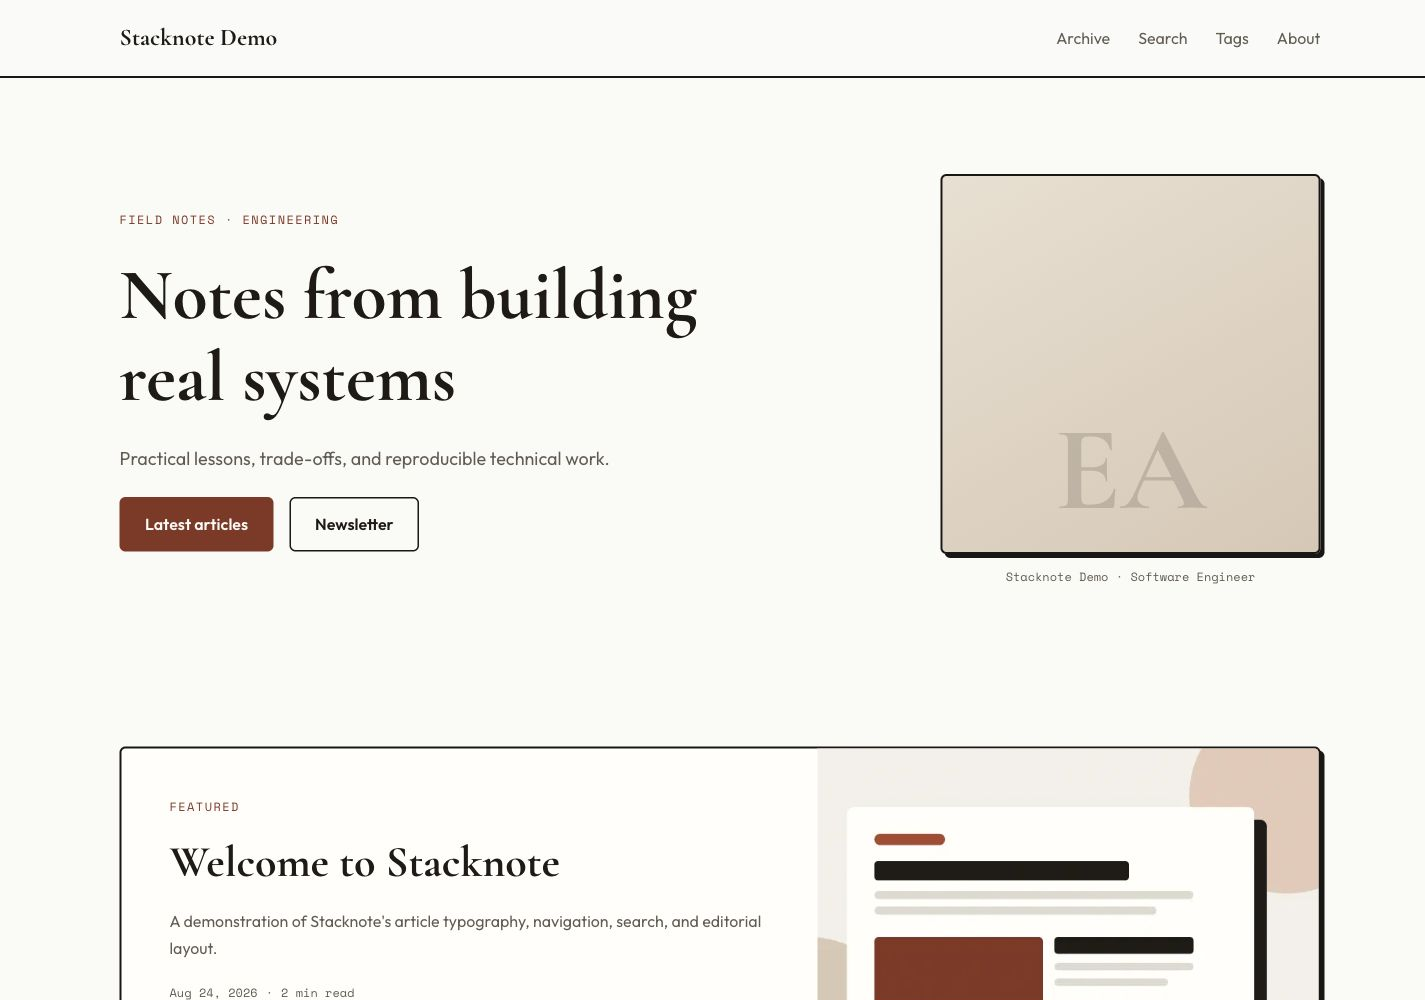
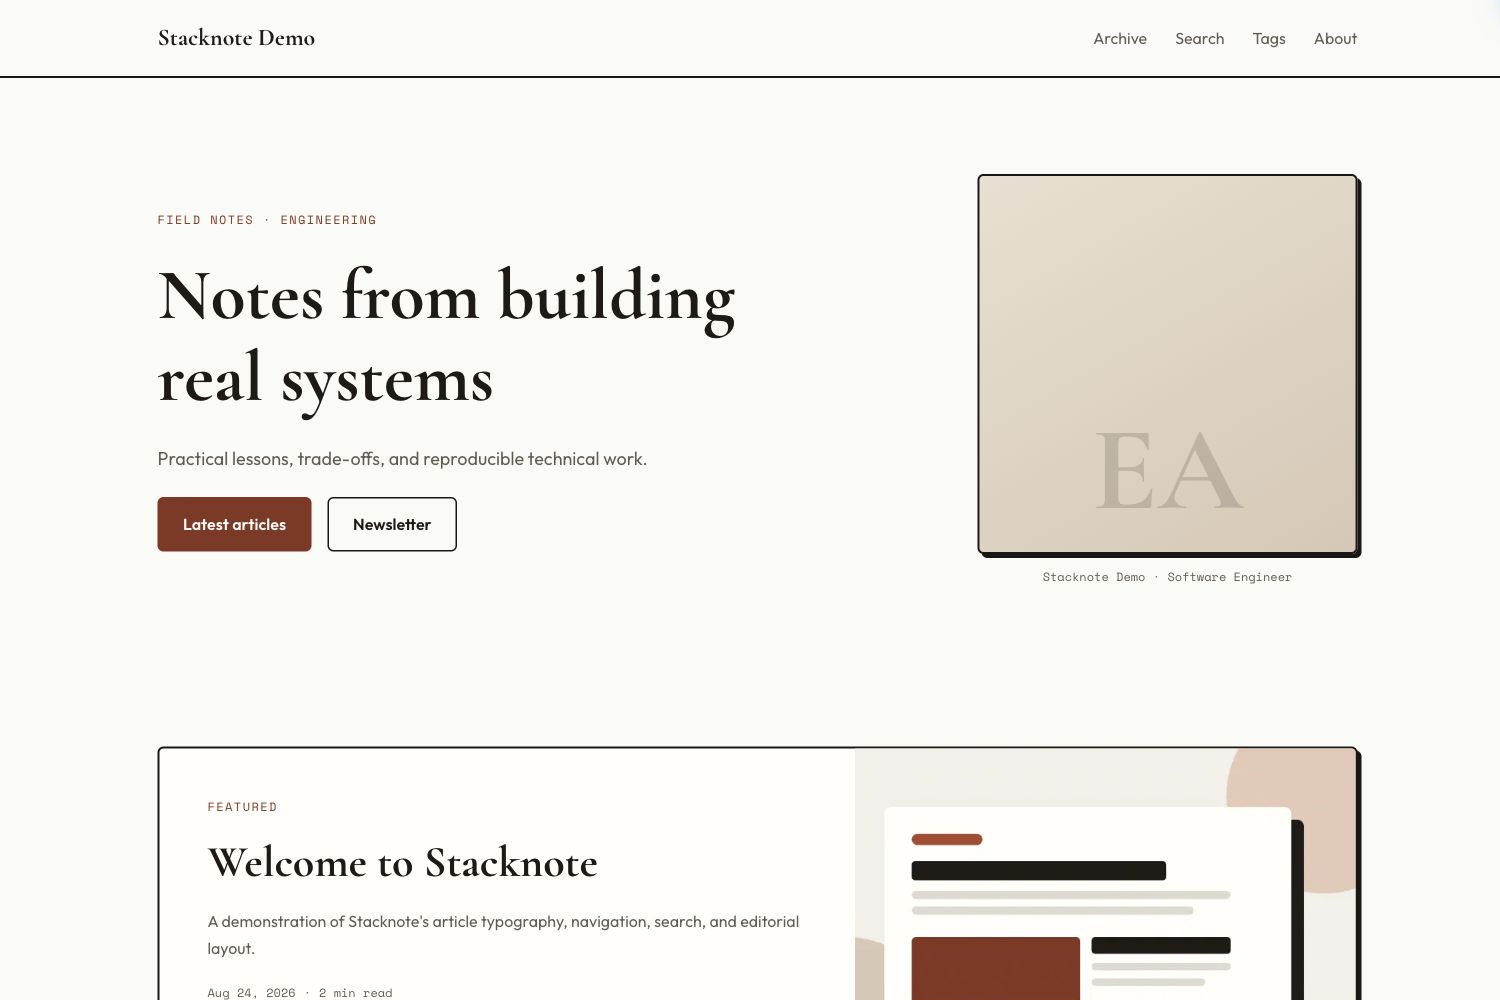
chore: add Hugo metadata and compliant preview assets

diff --git a/README.md b/README.md
@@ -6,9 +6,9 @@ The live design can be seen at [wanglong.cv](https://wanglong.cv/). A self-conta
 
 ## Preview
 
-[![Stacknote desktop preview](images/tn.png)](images/screenshot-full.png)
+[![Stacknote desktop preview](https://raw.githubusercontent.com/myimilo/hugo-theme-stacknote/main/images/tn.png)](https://raw.githubusercontent.com/myimilo/hugo-theme-stacknote/main/images/screenshot-full.png)
 
-[Desktop screenshot](images/screenshot.png) · [Full desktop page](images/screenshot-full.png) · [Mobile screenshot](images/mobile.png) · [Full mobile page](images/mobile-full.png)
+[Desktop screenshot](https://raw.githubusercontent.com/myimilo/hugo-theme-stacknote/main/images/screenshot.png) · [Full desktop page](https://raw.githubusercontent.com/myimilo/hugo-theme-stacknote/main/images/screenshot-full.png) · [Mobile screenshot](https://raw.githubusercontent.com/myimilo/hugo-theme-stacknote/main/images/mobile.png) · [Full mobile page](https://raw.githubusercontent.com/myimilo/hugo-theme-stacknote/main/images/mobile-full.png)
 
 ## Features
 
